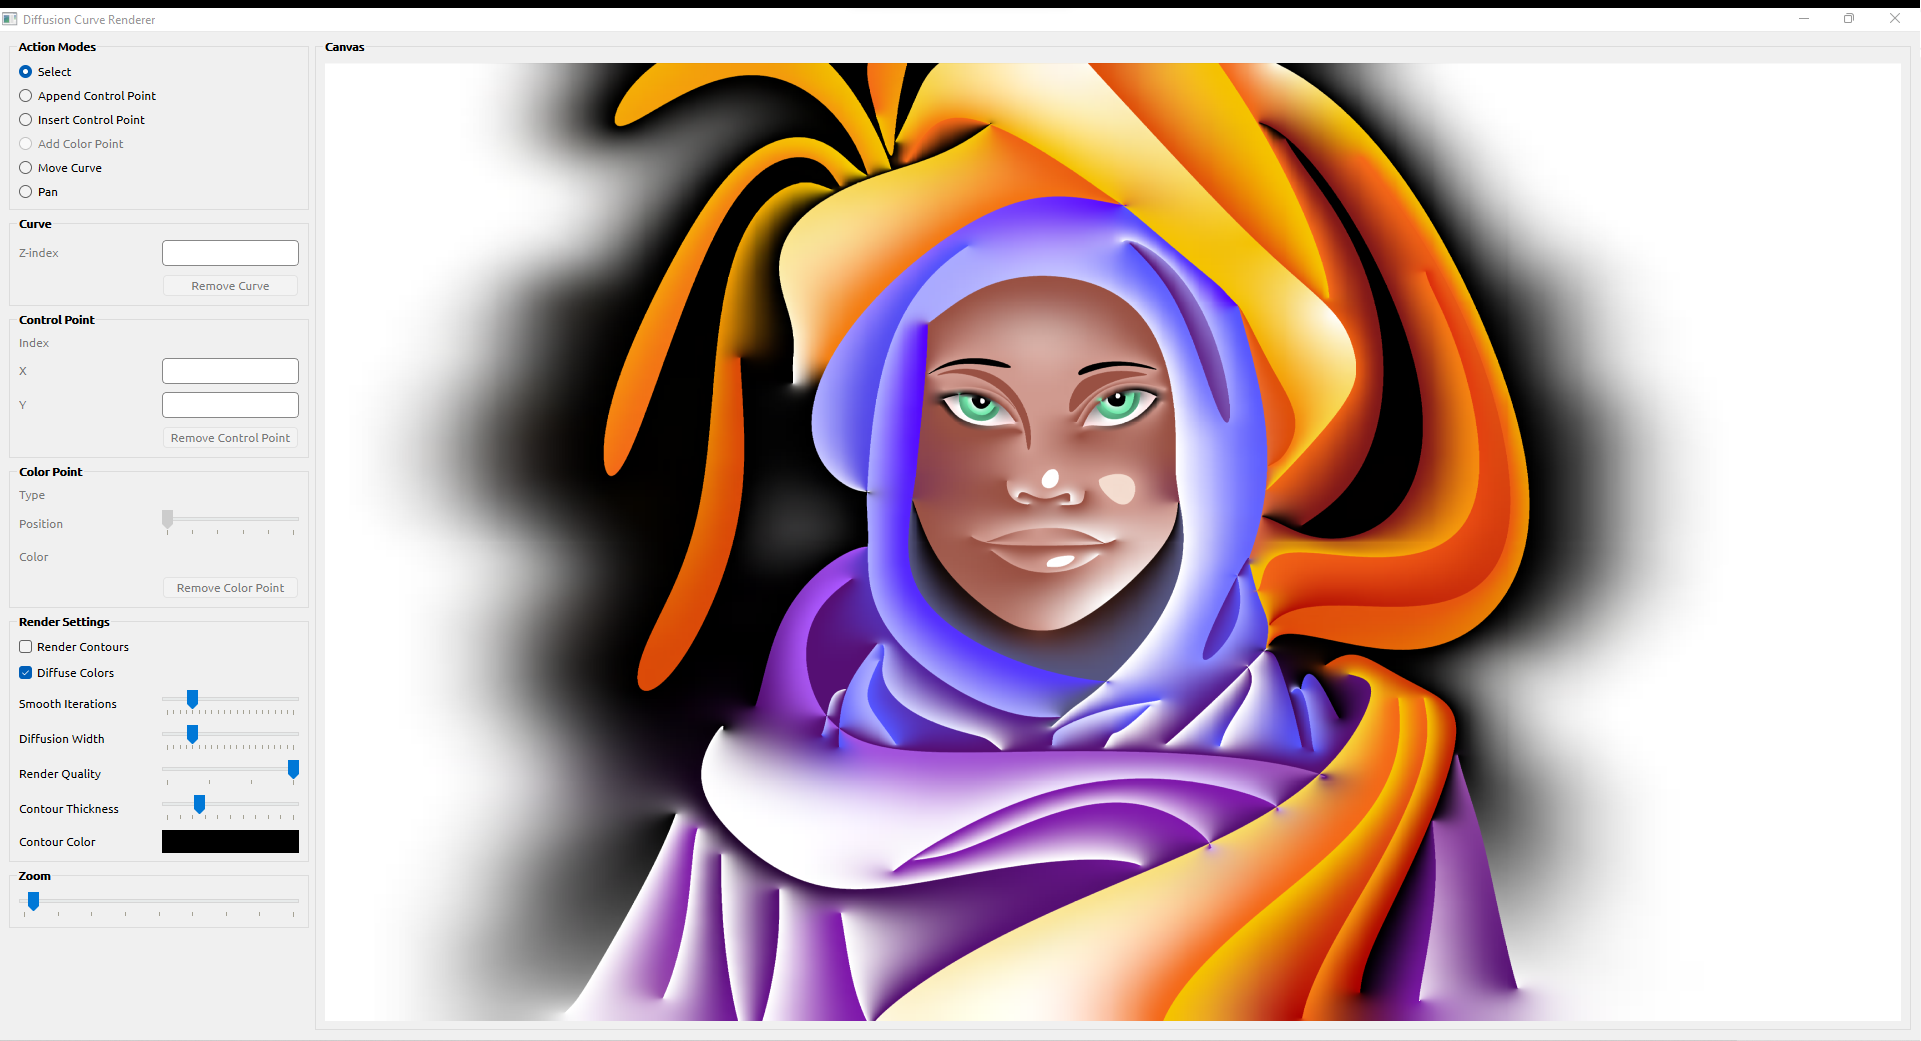
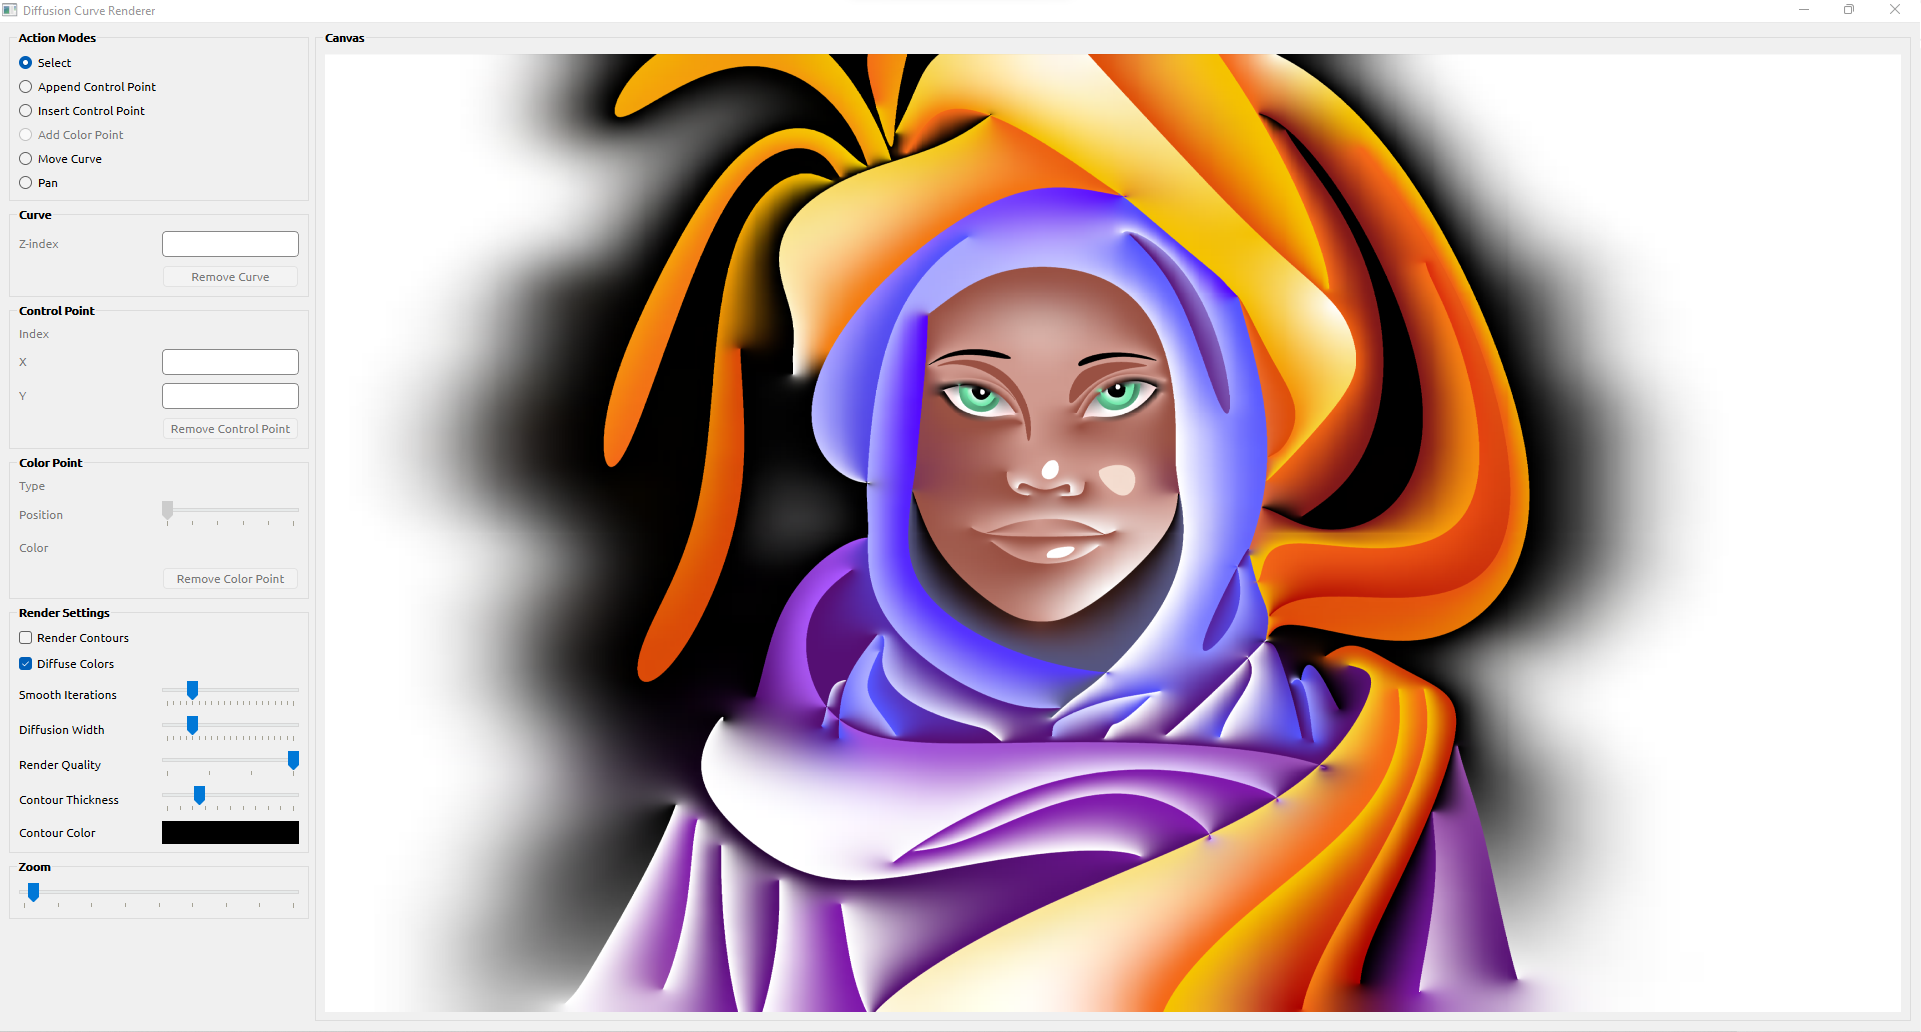
Update README.md

diff --git a/README.md b/README.md
@@ -3,6 +3,6 @@
 - Rendering 2D Bezier curves using OpenGL API.
 - Diffusing colors constrained by Bezier curves. Diffusion algorithm belongs to [Orzan et al.](https://hal.archives-ouvertes.fr/inria-00274768/)
 
-![](Screenshot.png)
+![](Screenshot3.png)
 
-![](Screenshot2.png)
+![](Screenshot4.png)
